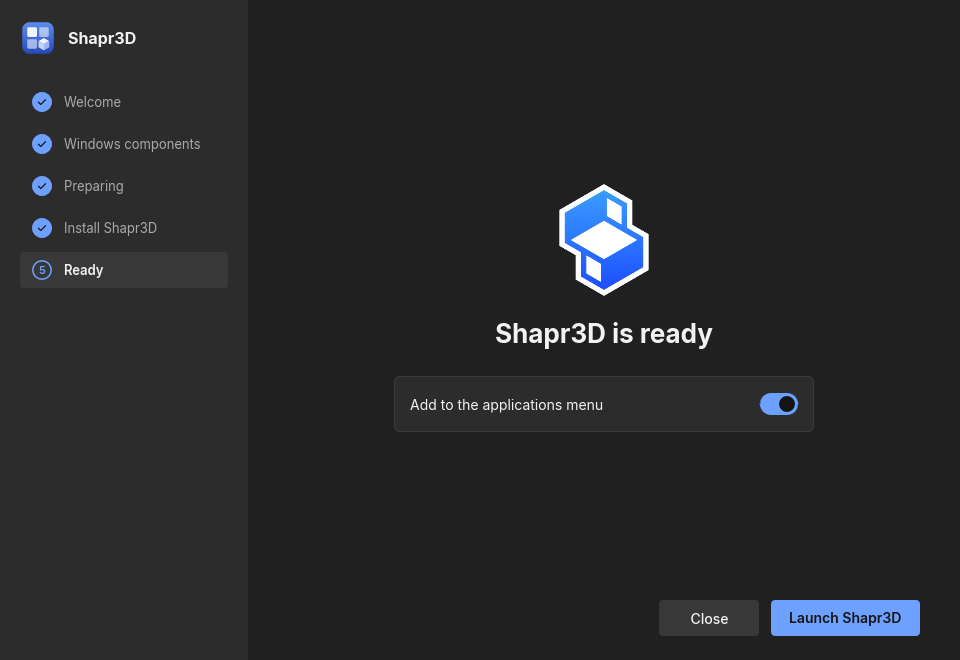
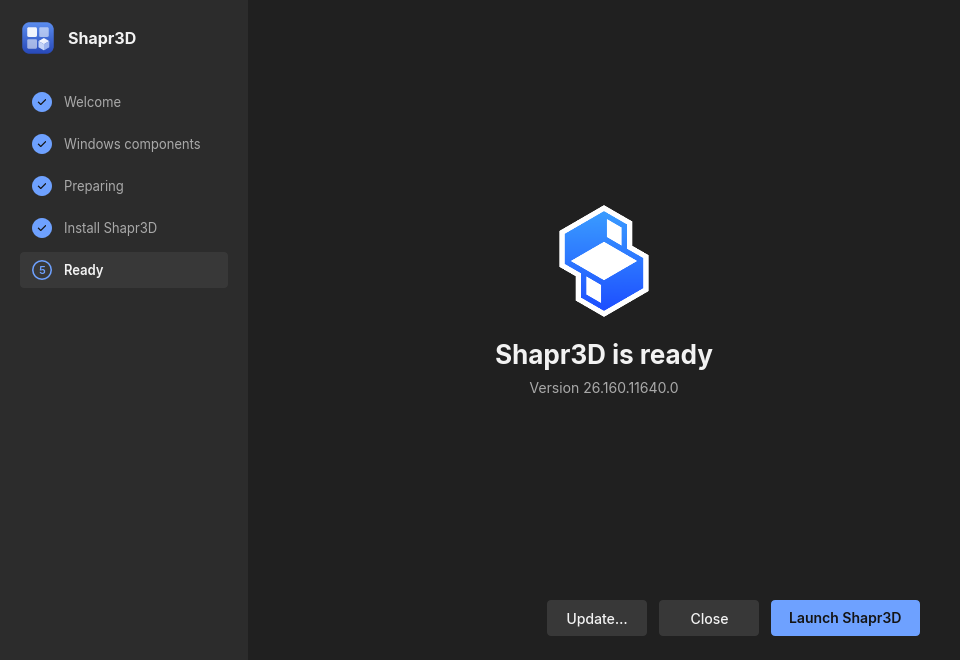
Installer: a launcher page with Update...
Once set up, the installer shows the installed version with Launch and
Update...; Update picks a newer package and reinstalls over the app, keeping
sign-in and projects. Refused while the app is running. A package passed to
an installed setup goes straight to the update page.

Changed region(s): [[0.4062, 0.2727, 0.75, 0.6364], [0.7812, 0.5758, 0.8438, 0.6364], [0.5938, 0.9091, 0.6562, 0.9697]]

diff --git a/installer/src/main.rs b/installer/src/main.rs
@@ -137,6 +137,8 @@ fn installed_apps(paths: &Paths) -> Vec<String> {
         .map(|rd| {
             rd.filter_map(|e| e.ok())
                 .filter(|e| e.path().join("identity.env").is_file())
+                // APP.new and APP.old are an update in progress
+                .filter(|e| !e.file_name().to_string_lossy().ends_with(".new") && !e.file_name().to_string_lossy().ends_with(".old"))
                 .map(|e| e.file_name().to_string_lossy().into_owned())
                 .collect()
         })
@@ -461,6 +463,11 @@ fn main() {
             add_to_menu(&paths, app);
             show_done(&ui, &paths, app);
             state.lock().unwrap().installed = Some(app.clone());
+            // a package passed to an installed setup is an update
+            if state.lock().unwrap().package.is_some() {
+                ui.set_updating(true);
+                ui.set_page(PAGE_PACKAGE);
+            }
         } else {
             ui.set_page(PAGE_PACKAGE);
         }
@@ -592,6 +599,22 @@ fn main() {
         });
     }
     {
+        let (w, s, p) = (ui.as_weak(), state.clone(), paths.clone());
+        ui.on_update(move || {
+            let ui = w.unwrap();
+            let Some(app) = s.lock().unwrap().installed.clone() else { return };
+            if app_running(&p, &app) {
+                ui.set_notice(format!("Close {} before updating.", app_title(&p, &app)).into());
+                return;
+            }
+            s.lock().unwrap().package = None;
+            ui.set_has_package(false);
+            ui.set_package_error("".into());
+            ui.set_updating(true);
+            ui.set_page(PAGE_PACKAGE);
+        });
+    }
+    {
         let w = ui.as_weak();
         ui.on_close_window(move || {
             let _ = w.unwrap().hide();
@@ -677,6 +700,10 @@ fn apply_package(ui: &Installer, info: PackageInfo) {
 }
 
 fn install(state: State, ui: Weak<Installer>, paths: Paths, package: PathBuf) {
+    if let Some(app) = state.lock().unwrap().installed.clone().filter(|a| app_running(&paths, a)) {
+        let title = app_title(&paths, &app);
+        return fail(&state, &ui, "The app is running", format!("Close {title}, then try again."), true);
+    }
     set_step(&ui, 0, 1, None);
     let mut installed = None;
     let u = ui.clone();
@@ -712,7 +739,29 @@ fn install(state: State, ui: Weak<Installer>, paths: Paths, package: PathBuf) {
     on_ui(&ui, move |ui| show_done(ui, &p, &app));
 }
 
+/// The installed package's version, from the full name install-app.py wrote (NAME_VERSION_ARCH_RES_PUBLISHER).
+fn installed_version(paths: &Paths, app: &str) -> String {
+    fs::read_to_string(paths.data.join("stage").join(app).join("identity.env"))
+        .unwrap_or_default()
+        .lines()
+        .find_map(|l| l.strip_prefix("export WINE_UWP_PACKAGE_FULL_NAME="))
+        .and_then(|f| f.split('_').nth(1).map(String::from))
+        .unwrap_or_default()
+}
+
+/// Is the app running? `wine-uwp run` holds a lock on logs/.APP.running for as long as it lives.
+fn app_running(paths: &Paths, app: &str) -> bool {
+    use std::os::fd::AsRawFd;
+    let Ok(f) = fs::OpenOptions::new().create(true).write(true).open(paths.data.join("logs").join(format!(".{app}.running"))) else {
+        return false;
+    };
+    unsafe { libc::flock(f.as_raw_fd(), libc::LOCK_EX | libc::LOCK_NB) != 0 }
+}
+
 fn show_done(ui: &Installer, paths: &Paths, app: &str) {
+    ui.set_installed_version(installed_version(paths, app).into());
+    ui.set_updating(false);
+    ui.set_notice("".into());
     ui.set_app_name(app_title(paths, app).into());
     let icon = paths.data.join("stage").join(app).join(".wine-uwp-icon.png");
     if let Ok(img) = slint::Image::load_from_path(&icon) {
